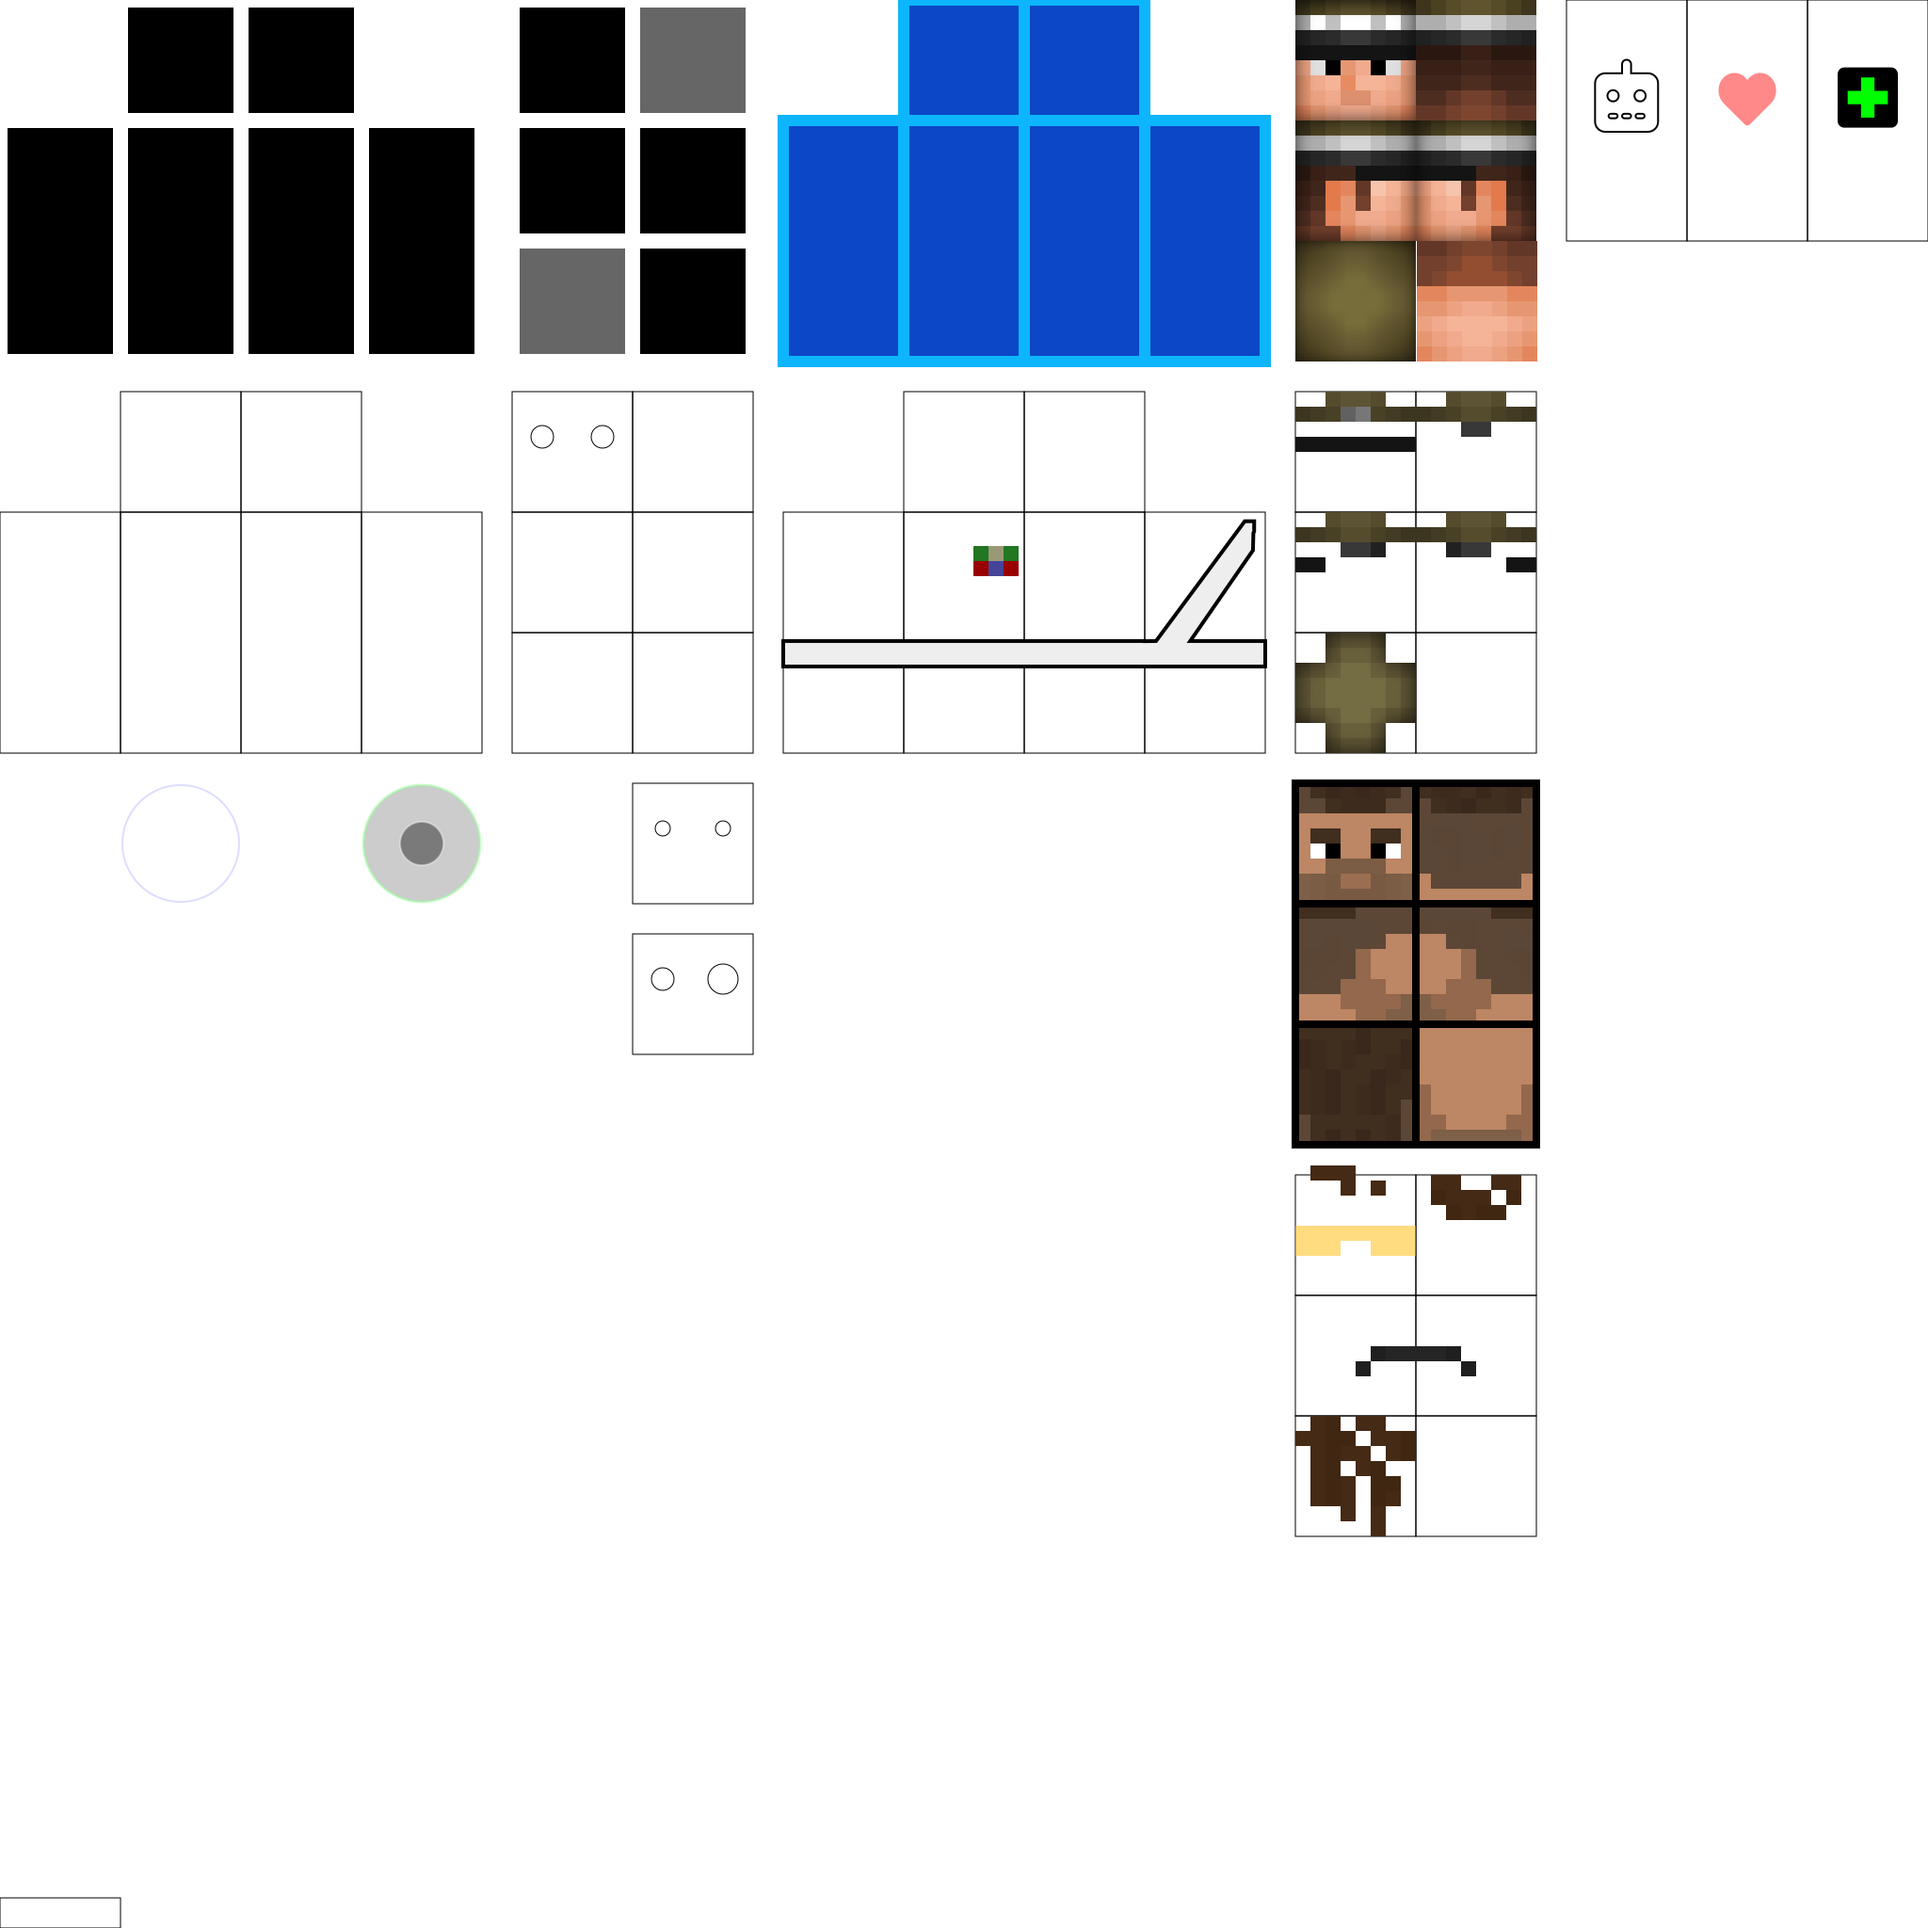
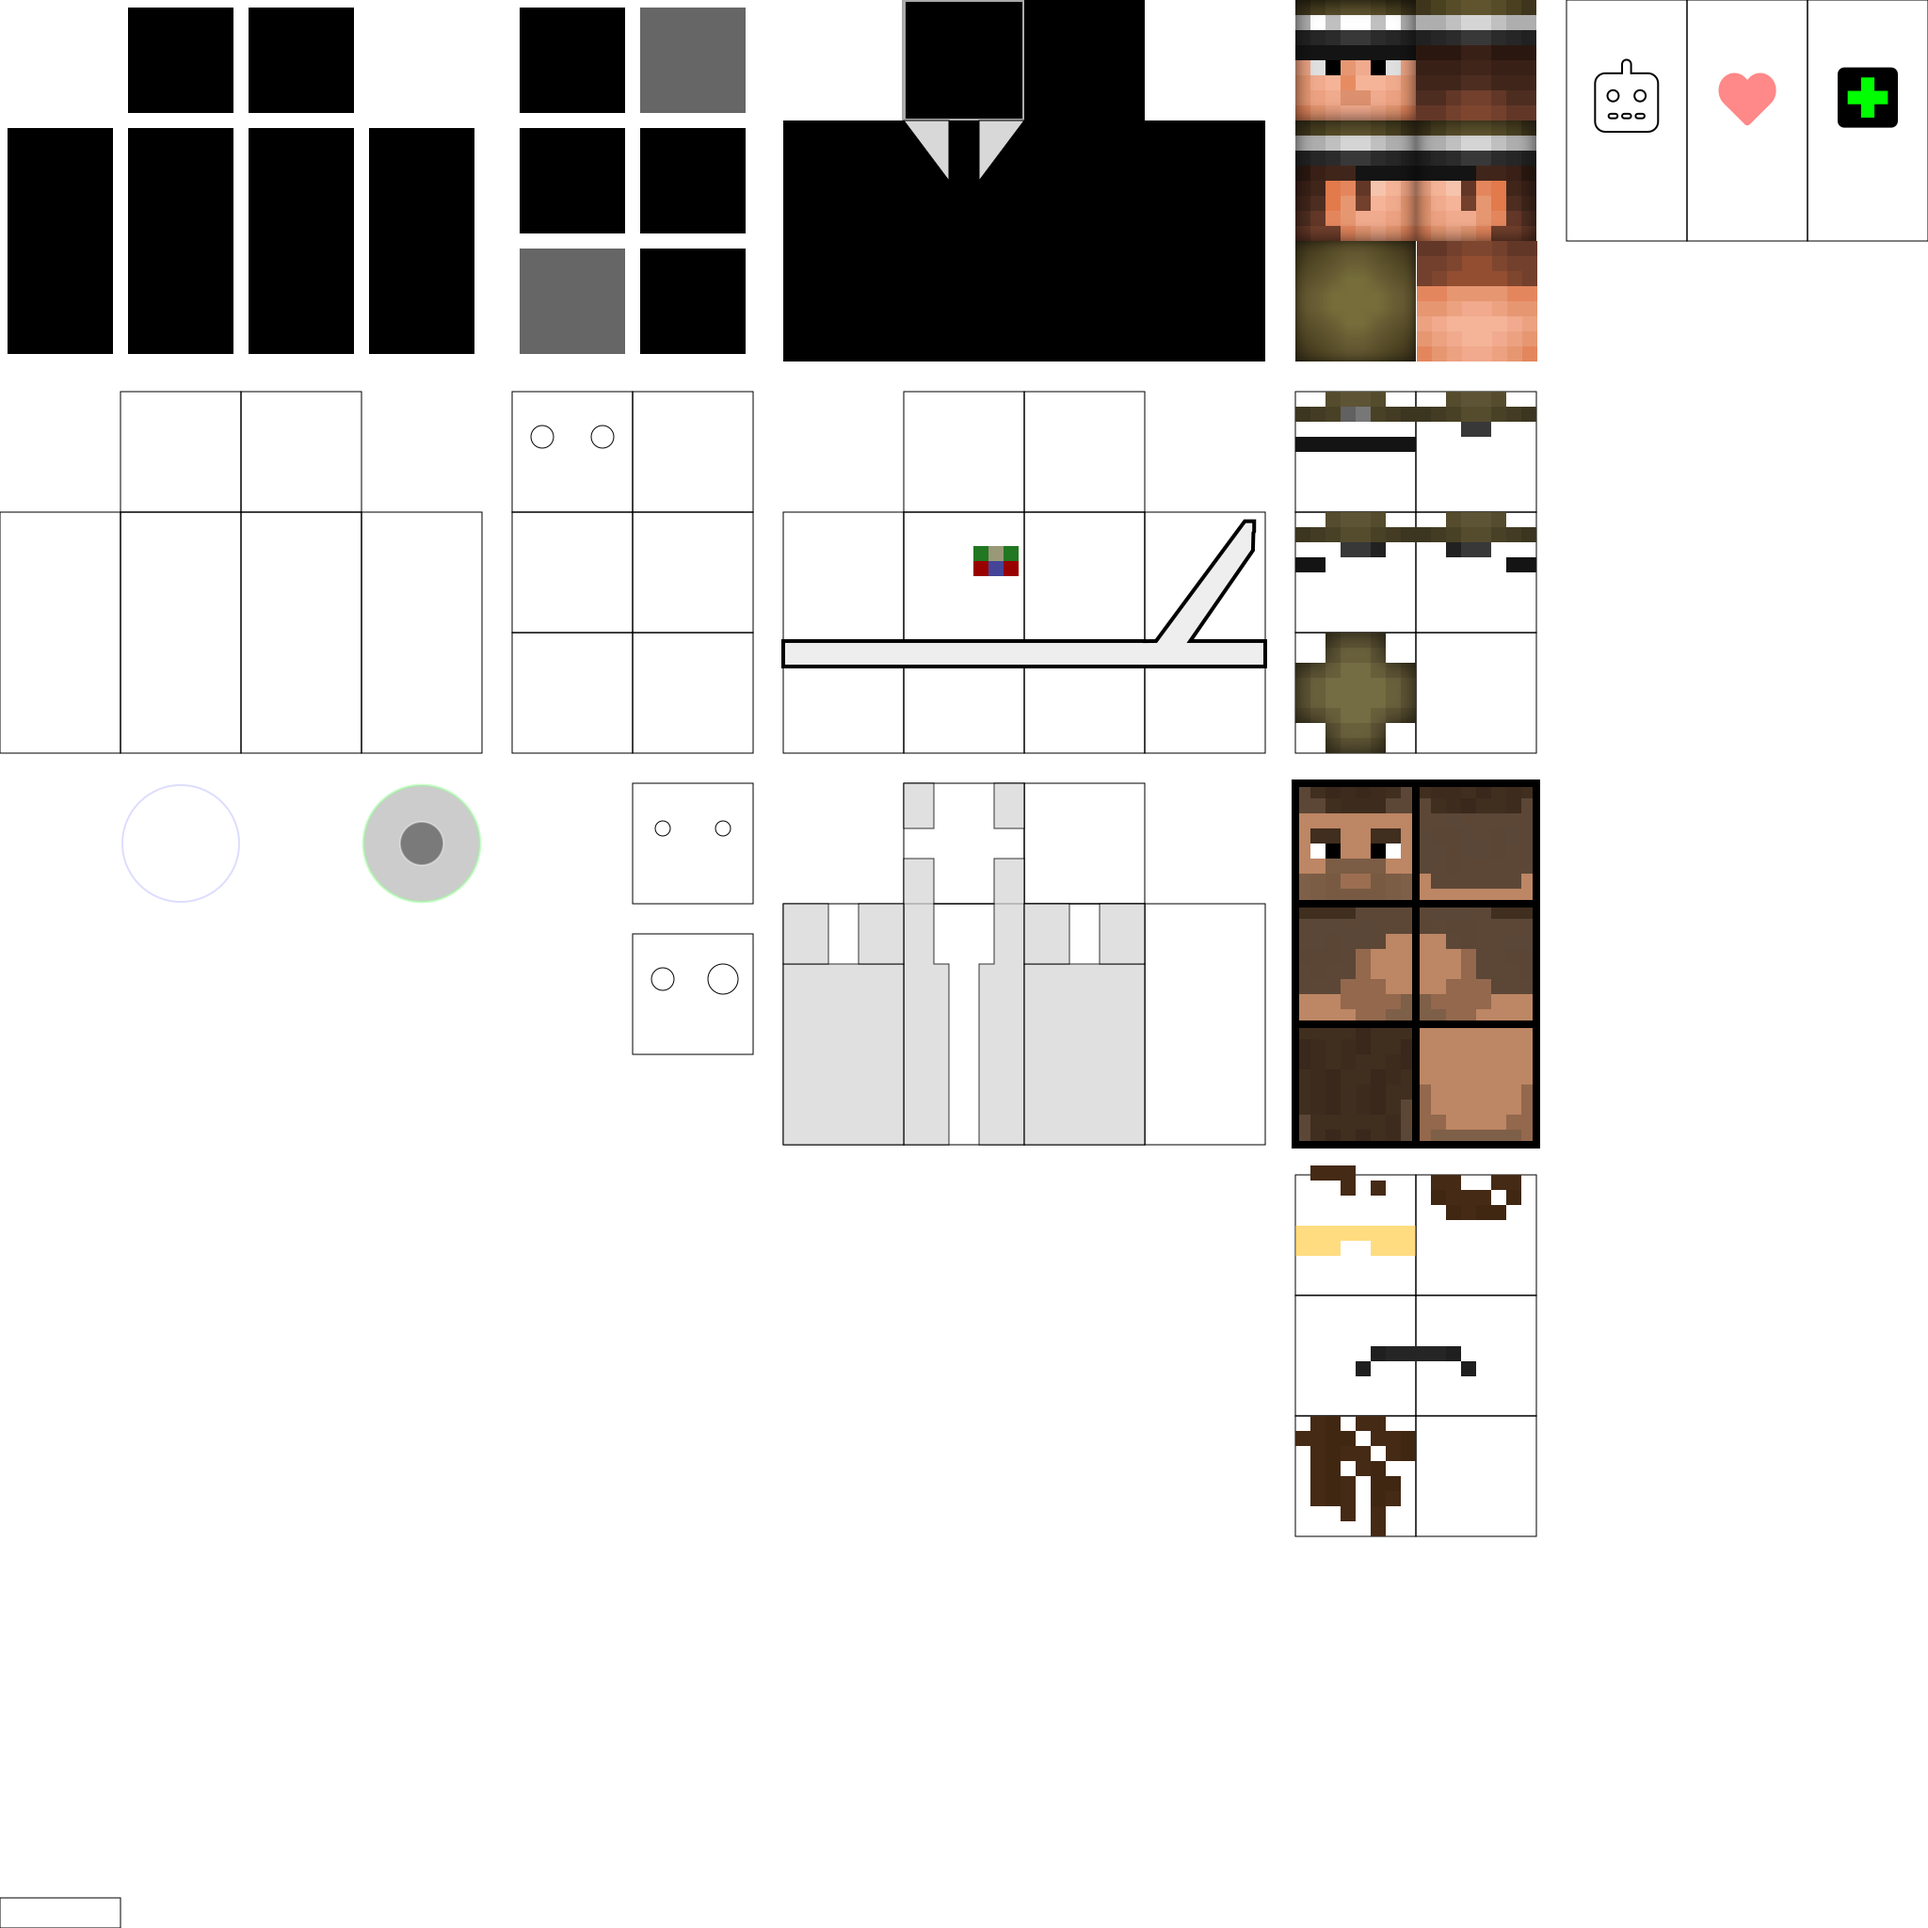
feat: node-canvas loadImage does not support path with transform-box: fill-box and transform-origin: 50% 50%

Changed region(s): [[0.4062, 0.0, 0.6562, 0.1875], [0.4062, 0.4062, 0.5938, 0.5938]]

diff --git a/README.md b/README.md
@@ -44,6 +44,18 @@ Related resources (less/more resolution)
 
 Then you can run the various scripts (as needed) found inside `scripts/get-pngs.js`.
 
+## Gotchas
+
+1. npm module `canvas` (a.k.a. node-canvas) loadImage does not handle `<path>` such as:
+
+  ```xml
+  <path d="M 1088 192 L 1088 128 L 1040 192 L 1088 192 Z" style="fill: rgb(216, 216, 216); stroke: rgb(0, 0, 0); transform-box: fill-box; transform-origin: 50% 50%;" transform="matrix(-1, 0, 0, -1, 0, 0)">
+    <bx:title>_debug-path-transform</bx:title>
+  </path>
+  ```
+
+  In BoxySVG we can `Object > transform > Reduce Transform`
+
 
 ## Development only routes
 
